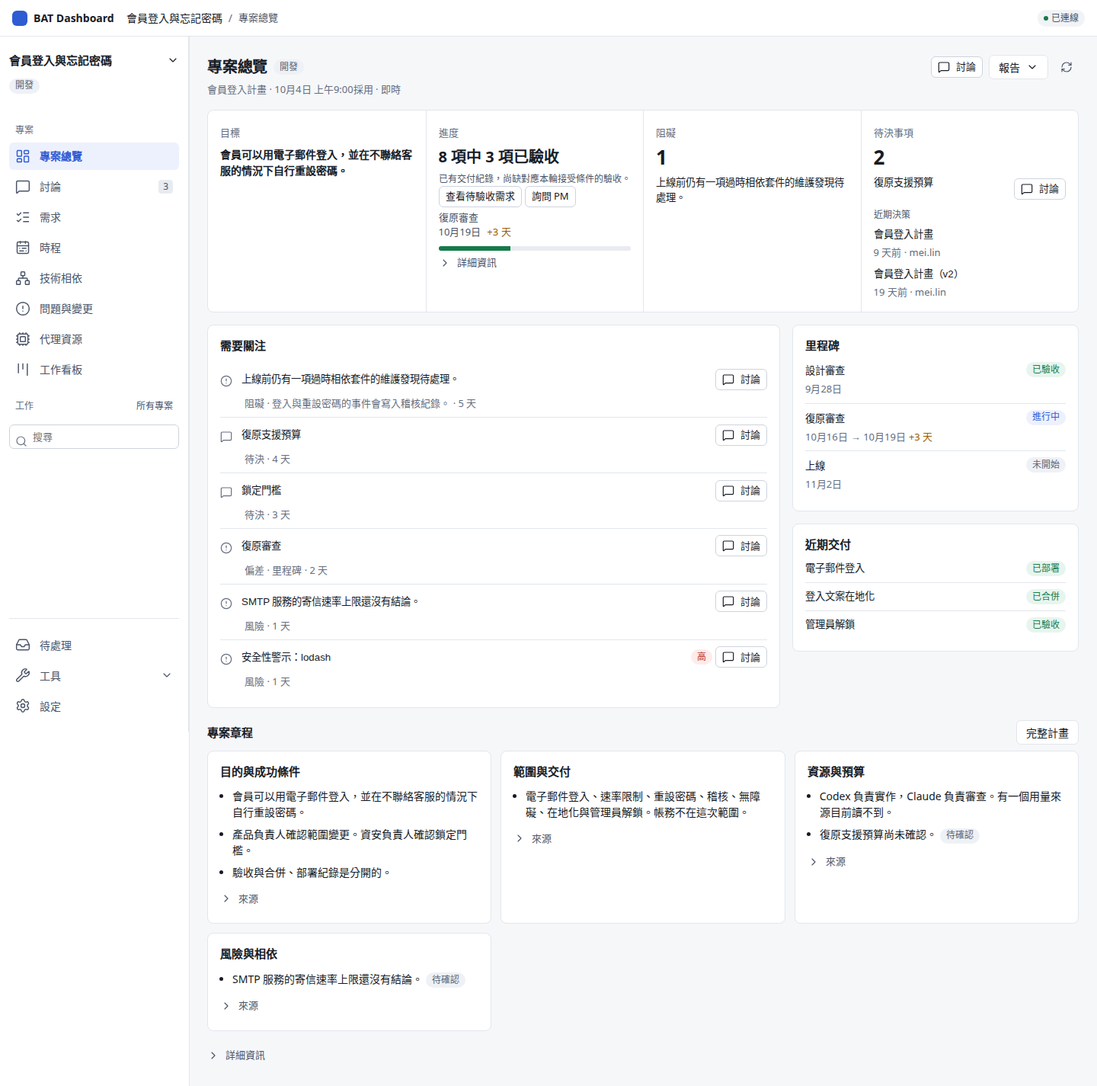
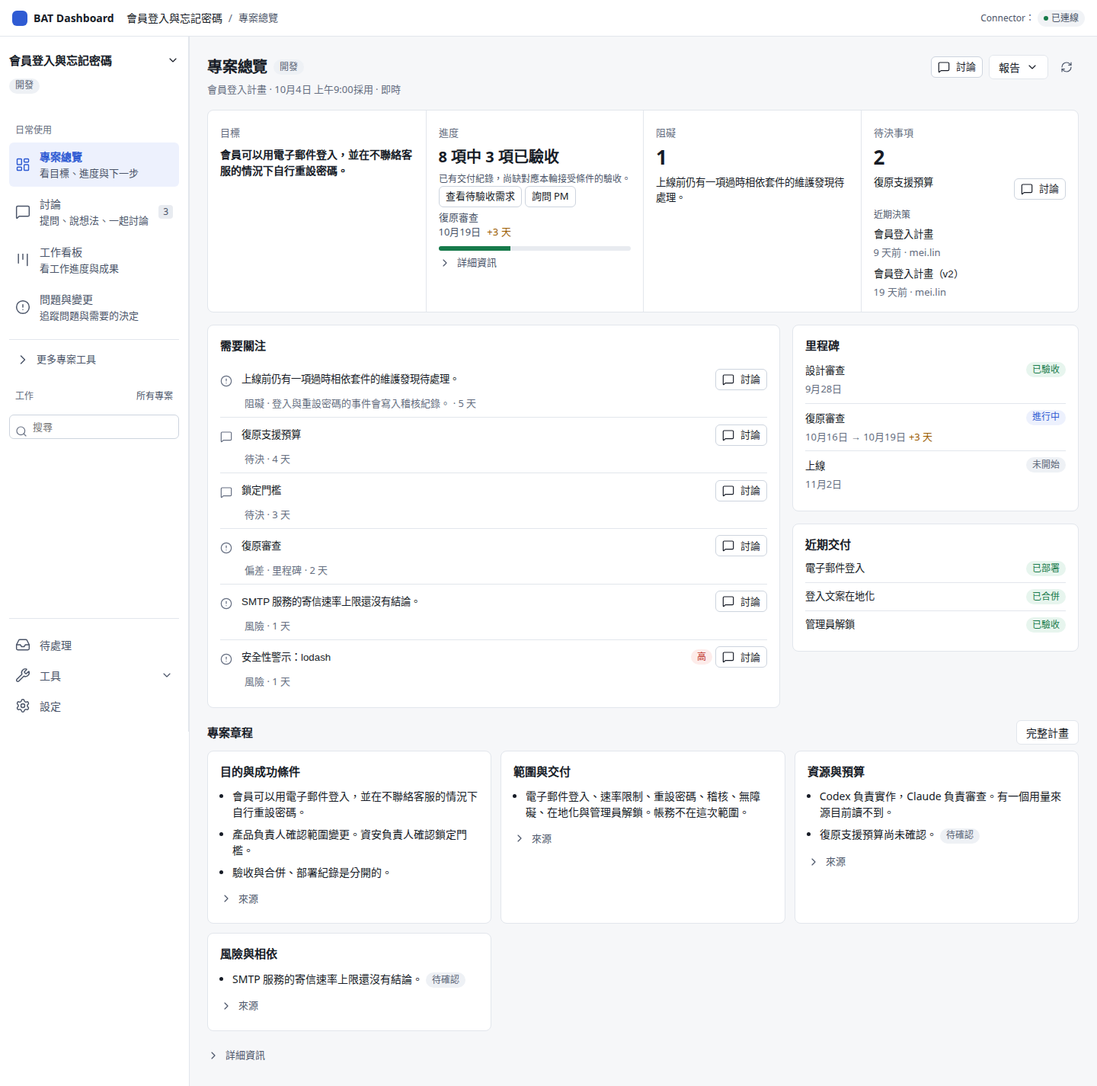
docs(site): recapture bilingual gallery from published preview source

diff --git a/site/index.html b/site/index.html
@@ -48,9 +48,9 @@
 <a class="lang-zh image-link" href="images/overview-zh.png" aria-label="開發階段的即時總覽：需要關注、誠實進度與四段專案章程。已存報告另外保留。"><img src="images/overview-zh.png" width="1440" height="1425" loading="lazy" alt="開發階段的即時總覽：需要關注、誠實進度與四段專案章程。已存報告另外保留。"></a>
 <figcaption><span><span class="lang-en">Live Overview in Development: Needs attention, honest progress and a four-section charter. Saved reports stay separate.</span><span class="lang-zh" lang="zh-Hant">開發階段的即時總覽：需要關注、誠實進度與四段專案章程。已存報告另外保留。</span></span><span class="caption-meta"><span class="lang-en">Actual UI · synthetic demo data · open image for full size</span><span class="lang-zh" lang="zh-Hant">實際介面 · 合成展示資料 · 點圖看原尺寸</span></span></figcaption></figure>
 <figure class="product-shot" id="view-discussions">
-<a class="lang-en image-link" href="images/discussions-en.png" aria-label="The proposal stays in the conversation, Proposed and Unresolved. Discussion info is not open over it. Save note only and Make a plan are shown. This synthetic session says ordinary PM replies are unavailable."><img src="images/discussions-en.png" width="1440" height="960" loading="lazy" alt="The proposal stays in the conversation, Proposed and Unresolved. Discussion info is not open over it. Save note only and Make a plan are shown. This synthetic session says ordinary PM replies are unavailable."></a>
-<a class="lang-zh image-link" href="images/discussions-zh.png" aria-label="提案留在對話中，狀態是建議、未決。討論資料沒有蓋在上面。畫面提供只存筆記與整理計畫。這個合成工作階段顯示一般 PM 對話目前無法使用。"><img src="images/discussions-zh.png" width="1440" height="960" loading="lazy" alt="提案留在對話中，狀態是建議、未決。討論資料沒有蓋在上面。畫面提供只存筆記與整理計畫。這個合成工作階段顯示一般 PM 對話目前無法使用。"></a>
-<figcaption><span><span class="lang-en">The proposal stays in the conversation, Proposed and Unresolved. Discussion info is not open over it. Save note only and Make a plan are shown. This synthetic session says ordinary PM replies are unavailable.</span><span class="lang-zh" lang="zh-Hant">提案留在對話中，狀態是建議、未決。討論資料沒有蓋在上面。畫面提供只存筆記與整理計畫。這個合成工作階段顯示一般 PM 對話目前無法使用。</span></span><span class="caption-meta"><span class="lang-en">Actual UI · synthetic demo data · open image for full size</span><span class="lang-zh" lang="zh-Hant">實際介面 · 合成展示資料 · 點圖看原尺寸</span></span></figcaption></figure>
+<a class="lang-en image-link" href="images/discussions-en.png" aria-label="The proposal stays in the conversation, Proposed and Unresolved. Discussion info is not open over it. Save note only and Make a plan are shown. This synthetic session says PM availability is unknown."><img src="images/discussions-en.png" width="1440" height="960" loading="lazy" alt="The proposal stays in the conversation, Proposed and Unresolved. Discussion info is not open over it. Save note only and Make a plan are shown. This synthetic session says PM availability is unknown."></a>
+<a class="lang-zh image-link" href="images/discussions-zh.png" aria-label="提案留在對話中，狀態是建議、未決。討論資料沒有蓋在上面。畫面提供只存筆記與整理計畫。這個合成工作階段顯示 PM 可用性未知。"><img src="images/discussions-zh.png" width="1440" height="960" loading="lazy" alt="提案留在對話中，狀態是建議、未決。討論資料沒有蓋在上面。畫面提供只存筆記與整理計畫。這個合成工作階段顯示 PM 可用性未知。"></a>
+<figcaption><span><span class="lang-en">The proposal stays in the conversation, Proposed and Unresolved. Discussion info is not open over it. Save note only and Make a plan are shown. This synthetic session says PM availability is unknown.</span><span class="lang-zh" lang="zh-Hant">提案留在對話中，狀態是建議、未決。討論資料沒有蓋在上面。畫面提供只存筆記與整理計畫。這個合成工作階段顯示 PM 可用性未知。</span></span><span class="caption-meta"><span class="lang-en">Actual UI · synthetic demo data · open image for full size</span><span class="lang-zh" lang="zh-Hant">實際介面 · 合成展示資料 · 點圖看原尺寸</span></span></figcaption></figure>
 <figure class="product-shot" id="view-requirements">
 <a class="lang-en image-link" href="images/requirements-en.png" aria-label="Expand the email sign-in row and read its work inspector. Acceptance, merged PRs and partial delivery each retain their evidence."><img src="images/requirements-en.png" width="1440" height="1600" loading="lazy" alt="Expand the email sign-in row and read its work inspector. Acceptance, merged PRs and partial delivery each retain their evidence."></a>
 <a class="lang-zh image-link" href="images/requirements-zh.png" aria-label="展開電子郵件登入需求與工作詳情，分開查看驗收、已合併 PR 及部分交付證據。"><img src="images/requirements-zh.png" width="1440" height="1600" loading="lazy" alt="展開電子郵件登入需求與工作詳情，分開查看驗收、已合併 PR 及部分交付證據。"></a>
@@ -75,7 +75,7 @@
 <a class="lang-en image-link" href="images/session-en.png" aria-label="Read the manual BAT session on demo-host. View only says this host is not set up for managed work. There is no send or interrupt control."><img src="images/session-en.png" width="1440" height="960" loading="lazy" alt="Read the manual BAT session on demo-host. View only says this host is not set up for managed work. There is no send or interrupt control."></a>
 <a class="lang-zh image-link" href="images/session-zh.png" aria-label="閱讀 demo-host 上的人工 BAT 工作階段。僅供檢視寫明此主機尚未設定受管工作。沒有送出或中斷控制。"><img src="images/session-zh.png" width="1440" height="960" loading="lazy" alt="閱讀 demo-host 上的人工 BAT 工作階段。僅供檢視寫明此主機尚未設定受管工作。沒有送出或中斷控制。"></a>
 <figcaption><span><span class="lang-en">Read the manual BAT session on demo-host. View only says this host is not set up for managed work. There is no send or interrupt control.</span><span class="lang-zh" lang="zh-Hant">閱讀 demo-host 上的人工 BAT 工作階段。僅供檢視寫明此主機尚未設定受管工作。沒有送出或中斷控制。</span></span><span class="caption-meta"><span class="lang-en">Actual UI · synthetic demo data · open image for full size</span><span class="lang-zh" lang="zh-Hant">實際介面 · 合成展示資料 · 點圖看原尺寸</span></span></figcaption></figure>
-<div class="release-note"><strong><span class="lang-en">Development preview</span><span class="lang-zh" lang="zh-Hant">開發預覽</span></strong><span><span class="lang-en">Screenshots pin merged main at 14c62830240148b14a4d28a9c428f7f8b5ba8bf3, through #314 on October 19, 2026. They show the synthetic Dashboard in Development: Needs attention, a four-section live charter, an unadopted discussion proposal, twelve register records, and a manual session whose host is not set up for managed work. The gallery does not open Start work or the Result section. Gallery images do not establish installation or live acceptance. Match the package to its source before installing.</span><span class="lang-zh" lang="zh-Hant">截圖固定於已合併主線的 14c62830240148b14a4d28a9c428f7f8b5ba8bf3，包含 2026 年 10 月 19 日的 #314。畫面是開發階段的合成 Dashboard：需要關注、四段即時專案章程、一份尚未採用的討論提案、十二筆登記，以及人工工作階段寫明此主機尚未設定受管工作。圖庫沒有打開「開始工作」或成果區。圖庫不代表安裝或實機驗收；安裝前請核對套件來源。</span></span><a href="#status"><span><span class="lang-en">Current scope</span><span class="lang-zh" lang="zh-Hant">目前範圍</span></span></a></div><a href="https://github.com/TED-H-com/bat-agent-connector/blob/main/site/images/README.md" class="text-link"><span><span class="lang-en">Screenshot sources and reproduction →</span><span class="lang-zh" lang="zh-Hant">截圖來源與重拍方式 →</span></span></a><div class="principles">
+<div class="release-note"><strong><span class="lang-en">Development preview</span><span class="lang-zh" lang="zh-Hant">開發預覽</span></strong><span><span class="lang-en">Screenshots pin merged main at 437ee6a7143a82e32eae1d6a008203b2df072aaf, the published 0.2.13 / 0.1.9 prerelease through #395 on October 22, 2026. They show the synthetic Dashboard in Development: Needs attention, a four-section live charter, an unadopted discussion proposal, twelve register records, and a manual session whose host is not set up for managed work. The gallery does not open Start work or the Result section. Gallery images do not establish installation or live acceptance. Match the package to its source before installing.</span><span class="lang-zh" lang="zh-Hant">截圖固定於已合併主線的 437ee6a7143a82e32eae1d6a008203b2df072aaf，即 2026 年 10 月 22 日已發布的 0.2.13／0.1.9 預覽版（截至 #395）。畫面是開發階段的合成 Dashboard：需要關注、四段即時專案章程、一份尚未採用的討論提案、十二筆登記，以及人工工作階段寫明此主機尚未設定受管工作。圖庫沒有打開「開始工作」或成果區。圖庫不代表安裝或實機驗收；安裝前請核對套件來源。</span></span><a href="#status"><span><span class="lang-en">Current scope</span><span class="lang-zh" lang="zh-Hant">目前範圍</span></span></a></div><a href="https://github.com/TED-H-com/bat-agent-connector/blob/main/site/images/README.md" class="text-link"><span><span class="lang-en">Screenshot sources and reproduction →</span><span class="lang-zh" lang="zh-Hant">截圖來源與重拍方式 →</span></span></a><div class="principles">
 <div><h3><span class="lang-en">Activity has a source</span><span class="lang-zh" lang="zh-Hant">活動要有來源</span></h3><p><span class="lang-en">A session going quiet does not establish completion.</span><span class="lang-zh" lang="zh-Hant">session 安靜下來，不能直接判斷已完成。</span></p></div>
 <div><h3><span class="lang-en">Acceptance has a reason</span><span class="lang-zh" lang="zh-Hant">驗收要有理由</span></h3><p><span class="lang-en">Record the criterion, result, evidence and responsible reviewer.</span><span class="lang-zh" lang="zh-Hant">保留條件、結果、證據與負責審閱者。</span></p></div>
 <div><h3><span class="lang-en">Recovery keeps the original</span><span class="lang-zh" lang="zh-Hant">恢復沿用原紀錄</span></h3><p><span class="lang-en">Read back an uncertain operation before starting another.</span><span class="lang-zh" lang="zh-Hant">結果未知時先查回原操作，再決定下一步。</span></p></div>

diff --git a/scripts/build_product_site.py b/scripts/build_product_site.py
@@ -76,8 +76,8 @@ release_note = (
     '<div class="release-note">'
     + bi("Development preview", "開發預覽", "strong")
     + bi(
-        "Screenshots pin merged main at 14c62830240148b14a4d28a9c428f7f8b5ba8bf3, through #314 on October 19, 2026. They show the synthetic Dashboard in Development: Needs attention, a four-section live charter, an unadopted discussion proposal, twelve register records, and a manual session whose host is not set up for managed work. The gallery does not open Start work or the Result section. Gallery images do not establish installation or live acceptance. Match the package to its source before installing.",
-        "截圖固定於已合併主線的 14c62830240148b14a4d28a9c428f7f8b5ba8bf3，包含 2026 年 10 月 19 日的 #314。畫面是開發階段的合成 Dashboard：需要關注、四段即時專案章程、一份尚未採用的討論提案、十二筆登記，以及人工工作階段寫明此主機尚未設定受管工作。圖庫沒有打開「開始工作」或成果區。圖庫不代表安裝或實機驗收；安裝前請核對套件來源。",
+        "Screenshots pin merged main at 437ee6a7143a82e32eae1d6a008203b2df072aaf, the published 0.2.13 / 0.1.9 prerelease through #395 on October 22, 2026. They show the synthetic Dashboard in Development: Needs attention, a four-section live charter, an unadopted discussion proposal, twelve register records, and a manual session whose host is not set up for managed work. The gallery does not open Start work or the Result section. Gallery images do not establish installation or live acceptance. Match the package to its source before installing.",
+        "截圖固定於已合併主線的 437ee6a7143a82e32eae1d6a008203b2df072aaf，即 2026 年 10 月 22 日已發布的 0.2.13／0.1.9 預覽版（截至 #395）。畫面是開發階段的合成 Dashboard：需要關注、四段即時專案章程、一份尚未採用的討論提案、十二筆登記，以及人工工作階段寫明此主機尚未設定受管工作。圖庫沒有打開「開始工作」或成果區。圖庫不代表安裝或實機驗收；安裝前請核對套件來源。",
     )
     + link("#status", "Current scope", "目前範圍")
     + "</div>"
@@ -89,8 +89,8 @@ shots = [
      "Live Overview in Development: Needs attention, honest progress and a four-section charter. Saved reports stay separate.",
      "開發階段的即時總覽：需要關注、誠實進度與四段專案章程。已存報告另外保留。"),
     ("discussions", "Discussions", "討論",
-     "The proposal stays in the conversation, Proposed and Unresolved. Discussion info is not open over it. Save note only and Make a plan are shown. This synthetic session says ordinary PM replies are unavailable.",
-     "提案留在對話中，狀態是建議、未決。討論資料沒有蓋在上面。畫面提供只存筆記與整理計畫。這個合成工作階段顯示一般 PM 對話目前無法使用。"),
+     "The proposal stays in the conversation, Proposed and Unresolved. Discussion info is not open over it. Save note only and Make a plan are shown. This synthetic session says PM availability is unknown.",
+     "提案留在對話中，狀態是建議、未決。討論資料沒有蓋在上面。畫面提供只存筆記與整理計畫。這個合成工作階段顯示 PM 可用性未知。"),
     ("requirements", "Requirements", "需求",
      "Expand the email sign-in row and read its work inspector. Acceptance, merged PRs and partial delivery each retain their evidence.",
      "展開電子郵件登入需求與工作詳情，分開查看驗收、已合併 PR 及部分交付證據。"),

diff --git a/scripts/check_product_site.py b/scripts/check_product_site.py
@@ -224,8 +224,8 @@ def main() -> None:
             check_link(path, value, errors)
             links += 1
     manifest = read_screenshot_manifest(SITE / "images/manifest.json")
-    if manifest.get("frontend_source_commit") != "14c62830240148b14a4d28a9c428f7f8b5ba8bf3":
-        errors.append("Public screenshots must pin merged release source at 14c62830.")
+    if manifest.get("frontend_source_commit") != "437ee6a7143a82e32eae1d6a008203b2df072aaf":
+        errors.append("Public screenshots must pin published preview source at 437ee6a7.")
     errors.extend(screenshot_errors(manifest, SITE / "images"))
     git = shutil.which("git")
     if git is None:

diff --git a/tests/test_release_identity.py b/tests/test_release_identity.py
@@ -154,7 +154,7 @@ def test_site_release_guard_does_not_limit_explicit_candidate_validation(candida
     monkeypatch.setattr(site_check, "check_link", lambda *args: None)
     with pytest.raises(SystemExit) as refusal:
         site_check.main()
-    assert str(refusal.value) == "Public screenshots must pin merged release source at 14c62830."
+    assert str(refusal.value) == "Public screenshots must pin published preview source at 437ee6a7."
 
 
 @pytest.mark.parametrize("component", AVAILABLE)

diff --git a/site/images/README.md b/site/images/README.md
@@ -1,16 +1,19 @@
 # Product screenshots
 
 These sixteen unedited PNGs show the real shared browser frontend from merged main
-`14c62830240148b14a4d28a9c428f7f8b5ba8bf3`, using the single membership demo project
+`437ee6a7143a82e32eae1d6a008203b2df072aaf`, using the single membership demo project
 in [`desktop/tests/demo/index.ts`](../../desktop/tests/demo/index.ts).
-This is the published Connector 0.2.12 / desktop 0.1.8 source through #314 (2026-10-19). It includes the merged Work loop: start, adopt-and-start, a second instruction to the same Work, fixed Results and requested diffs, profiles/readiness, verification, PR delivery and API/MCP parity. This compact gallery shows existing PM views and a read-only manual session; it does not open Start work or the Work Result inspector. Those features require the configured capabilities, BAT host and bound repository. Native coding/AHP routes, full PM lifecycle work and real BAT/model/device acceptance remain separate open work.
+This is the published Connector 0.2.13 / desktop 0.1.9 prerelease source through #395 (2026-10-22). The compact gallery shows existing PM views and a read-only manual session with synthetic data. It does not open Start work or the Work Result inspector. It does not show later changes #399–#403. Native coding/AHP routes, full PM lifecycle work and real BAT/model/device acceptance remain separate open work.
+
+這十六張圖固定於已發布的 Connector 0.2.13／desktop 0.1.9 預覽版來源 `437ee6a7`（2026-10-22，#395），使用合成資料展示既有 PM 檢視與唯讀人工工作階段。圖庫沒有開啟「開始工作」或 Work 成果檢視器，也不含後續 #399–#403。原生 coding／AHP 路線、完整 PM 生命週期及真 BAT／模型／裝置驗收仍分別待完成。
 The development preview is shared-browser evidence; this refresh provides no installation or live acceptance evidence.
+本次預覽只提供共用瀏覽器畫面證據，不提供安裝或實機驗收證據。
 The [current implementation status](../../docs/product/implementation-status.md) separates published source, historical installation receipts and pending acceptance.
 
 | Images (English / zh-TW) | Scene and state |
 | --- | --- |
 | `overview-en.png`, `overview-zh.png` | Live Overview in Development: eight adopted requirements, three accepted, one blocker, two pending decisions, and Recovery review forecast three days late. Needs attention lists six rows; each shows its kind, context and age, with Discuss as the one action. Recently decided shows two synthetic plan-adoption receipts, actor `mei.lin`, separate from the pending decisions. The maintenance alert names lodash. The live charter shows four sections: purpose, scope, resources and risks. Milestones and recent deliveries stay in their own cards. Saved reports are separate. |
-| `discussions-en.png`, `discussions-zh.png` | Discussion opened from the Overview blocker through its Discuss link. Automatic title, original context chip, and a reviewable proposal in the conversation. The proposal is Proposed and Unresolved (建議、未決); it is not adopted and does not authorize work. Discussion info is not open over it. The composer offers Save note only and Make a plan. This synthetic session says ordinary PM replies are unavailable, and its status line says PM finished. |
+| `discussions-en.png`, `discussions-zh.png` | Discussion opened from the Overview blocker through its Discuss link. Automatic title, original context chip, and a reviewable proposal in the conversation. The proposal is Proposed and Unresolved (建議、未決); it is not adopted and does not authorize work. Discussion info is not open over it. The composer offers Save note only and Make a plan. This synthetic session says PM availability is unknown, and its status line says PM finished. |
 | `requirements-en.png`, `requirements-zh.png` | RTM with email sign-in expanded and its bound work inspector open: eight requirements, three accepted, one recorded blocker. The row says Acceptance Accepted and Deploy Partial. The inspector keeps PR #87 and #91 Merged, with one deployed receipt and one unknown deploy. The latest result says the definition of done is not assessed. Owner is Not recorded. There is no Start work panel. |
 | `issues-en.png`, `issues-zh.png` | Both register pages loaded: twelve records (one risk, six issues, one action, three changes, one adopted decision), including named maintenance findings. The header counts match those rows. One open record has no known age. Open records remain open. The adopted decision is Member sign-in plan, separate from the open changes. |
 | `schedule-en.png`, `schedule-zh.png` | Recorded baseline, forecast and actual dates on a labelled axis. Design review stays collapsed. Unscheduled (6) stays collapsed. Recovery review is forecast three days late, and the header says 27 items. Waiting and Open stay distinct from Accepted. The phone width uses one fitted range, Sep 25 – Nov 7. |
@@ -36,7 +39,7 @@ so its independently scrolling inspector fits. Captures include the full page;
 image height can exceed the viewport. The manifest records both sizes, and the
 site uses the PNG dimensions to reserve the correct space. The fixture and browser clock are fixed at
 `2026-10-13T09:00:00.000Z`. The capture uses ordinary navigation, composer and
-inspector controls. It does not hide, replace or rewrite DOM content, or change product styles.
+inspector controls, including More project tools for the collapsed management views. It does not hide, replace or rewrite DOM content, or change product styles.
 The app also supports the user's system dark theme.
 
 [`manifest.json`](manifest.json) records the merged source commit and frontend
@@ -49,7 +52,7 @@ These checks concern shared-browser layout, not native or live acceptance.
 
 To repeat the capture:
 
-1. Use Node 24 and the locked `desktop/` dependencies (`npm ci`), with Playwright Chromium installed.
+1. Use an isolated checkout of `437ee6a7143a82e32eae1d6a008203b2df072aaf` and copy the current `scripts/capture_site.mjs` into it. Keep the pinned frontend, demo and browser assets unchanged. Use Node 24 and the locked `desktop/` dependencies (`npm ci`), with Playwright Chromium installed.
 2. Run `npm run check:browser` from `desktop/` to check the committed shared assets.
 3. From the repository root, choose a disk-backed temporary directory and run:
 
@@ -60,6 +63,10 @@ To repeat the capture:
 
 4. Inspect all sixteen public images, the 48 responsive previews and 18 additional review captures in `CAPTURE_REVIEW_DIR`.
    Review the regenerated manifest before committing.
+
+重製時請使用 `437ee6a7` 的獨立 checkout，放入目前的擷取腳本，保留該來源的前端、demo 與瀏覽器資產。
+腳本透過「更多專案工具」開啟收合的管理頁，不改 DOM 或樣式。
+檢查十六張公開圖片、48 張不同寬度的預覽及 18 張補充畫面，再連同 manifest 更新圖庫。
 
 The script owns its ephemeral loopback server and Chromium, and closes both on exit.
 A source-byte check refuses frontend or demo changes against the pinned commit.

diff --git a/site/README.md b/site/README.md
@@ -17,10 +17,12 @@ problem, discuss it with the PM and review a decision in the same context.
 It retains Windows Fleet, central authority, platform differences and installation guidance.
 
 The redesigned views and sixteen screenshots are a **development preview from merged main**
-pinned to `14c62830240148b14a4d28a9c428f7f8b5ba8bf3`.
-This is the published Connector 0.2.12 / desktop 0.1.8 source through #314 (2026-10-19). It includes the merged Work loop: start, adopt-and-start, a second instruction to the same Work, fixed Results and requested diffs, profiles/readiness, verification, PR delivery and API/MCP parity. This compact gallery shows existing PM views and a read-only manual session; it does not open Start work or the Work Result inspector. Those features require the configured capabilities, BAT host and bound repository. Native coding/AHP routes, full PM lifecycle work and real BAT/model/device acceptance remain separate open work.
-It includes the first-run connection URL flow; repository binding and verification
-are optional collapsed steps. This refresh provides no installation or live evidence.
+pinned to `437ee6a7143a82e32eae1d6a008203b2df072aaf`.
+This is the published Connector 0.2.13 / desktop 0.1.9 prerelease source through #395 (2026-10-22). The compact gallery shows existing PM views and a read-only manual session with synthetic data. It does not open Start work or the Work Result inspector. It does not show later changes #399–#403. Native coding/AHP routes, full PM lifecycle work and real BAT/model/device acceptance remain separate open work.
+
+這十六張圖固定於已發布的 Connector 0.2.13／desktop 0.1.9 預覽版來源 `437ee6a7`（2026-10-22，#395），使用合成資料展示既有 PM 檢視與唯讀人工工作階段。圖庫沒有開啟「開始工作」或 Work 成果檢視器，也不含後續 #399–#403。原生 coding／AHP 路線、完整 PM 生命週期及真 BAT／模型／裝置驗收仍分別待完成。
+This refresh provides no installation or live evidence.
+本次圖庫更新不提供安裝或實機驗收證據。
 CI and browser screenshots do not establish native or live acceptance.
 Keep validation outcomes in the [implementation status](../docs/product/implementation-status.md);
 link it from the site. The [October 12 report](../docs/product/progress-2026-10-12.md) retains historical evidence.

diff --git a/README.md b/README.md
@@ -22,7 +22,7 @@ Published preview source `437ee6a7` (through #395, October 22, 2026) connects re
 
 The **Web and Tauri desktop apps share one interface and one Python backend**. You keep using [Better Agent Terminal (BAT)](https://github.com/tony1223/better-agent-terminal) for your own coding. Windows Fleet manages local connections and startup. Connector keeps project history, permissions and operations consistent across the Dashboard, CLI and MCP.
 
-> **Development preview.** The screenshots come from merged `main` at `14c62830` (October 19, 2026, through #314).
+> **Development preview.** The screenshots come from the published prerelease source `437ee6a7` (October 22, 2026, through #395).
 > The gallery uses synthetic data; release, installation and live acceptance have separate evidence.
 > The [progress report](docs/product/implementation-status.md) separates branch, merged, installed and live-tested status.
 > Match a successful package to its exact source; screenshots and CI do not establish native or live acceptance.

diff --git a/README.zh-TW.md b/README.zh-TW.md
@@ -20,7 +20,7 @@ Better Agent Dashboard 把專案狀況、PM 討論與決策放在同一個工作
 
 **Web 與 Tauri 桌面版共用介面及 Python 後端。** 你照常在 [Better Agent Terminal（BAT）](https://github.com/tony1223/better-agent-terminal) 開發；Windows Fleet 管理本機連線與啟動，Connector 則讓 Dashboard、CLI、MCP 使用同一份專案歷史、權限和操作紀錄。
 
-> **開發預覽。** 截圖來自已合併的 `main` `14c62830`（2026 年 10 月 19 日，包含 #314）。
+> **開發預覽。** 截圖來自已發布預覽版來源 `437ee6a7`（2026 年 10 月 22 日，截至 #395）。
 > 圖庫使用合成資料；發布、安裝與實機驗收分別記錄。
 > [進度報告](docs/product/implementation-status.md)分開列出分支、合併、安裝與實機驗收狀態。
 > 下載時請核對套件的精確來源；截圖與 CI 不能代替原生或實機驗收。
